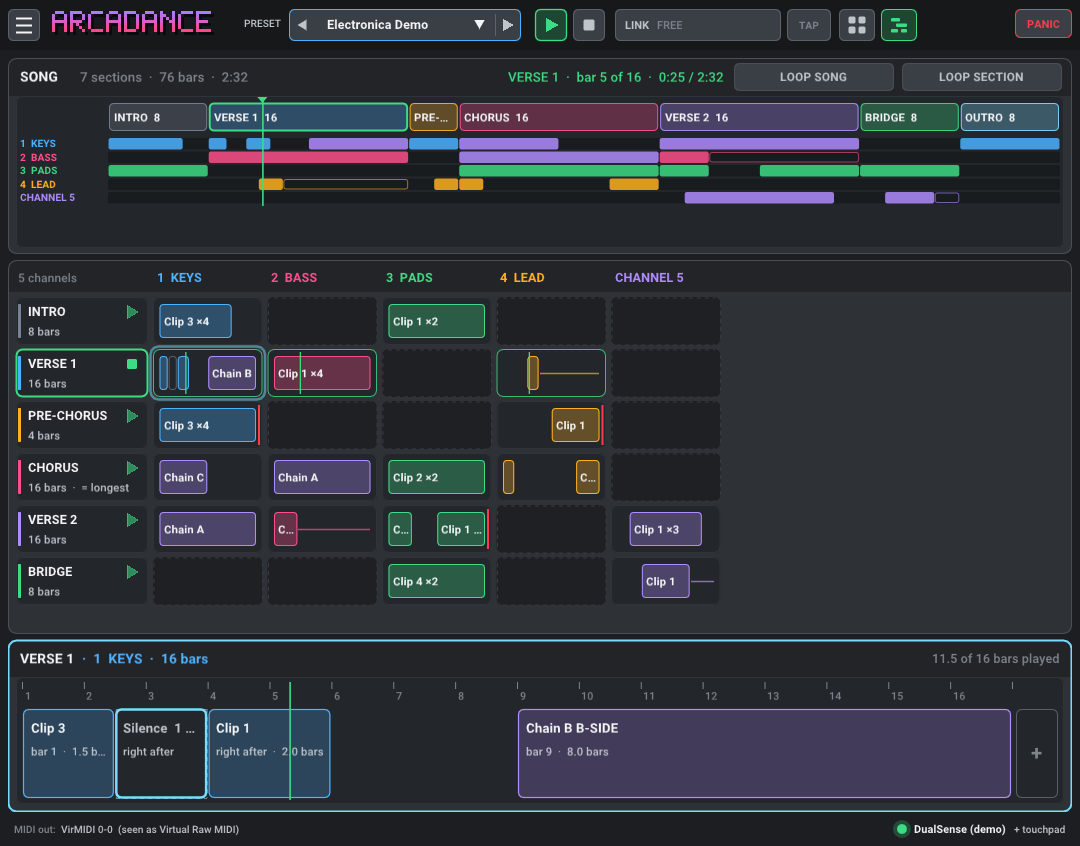
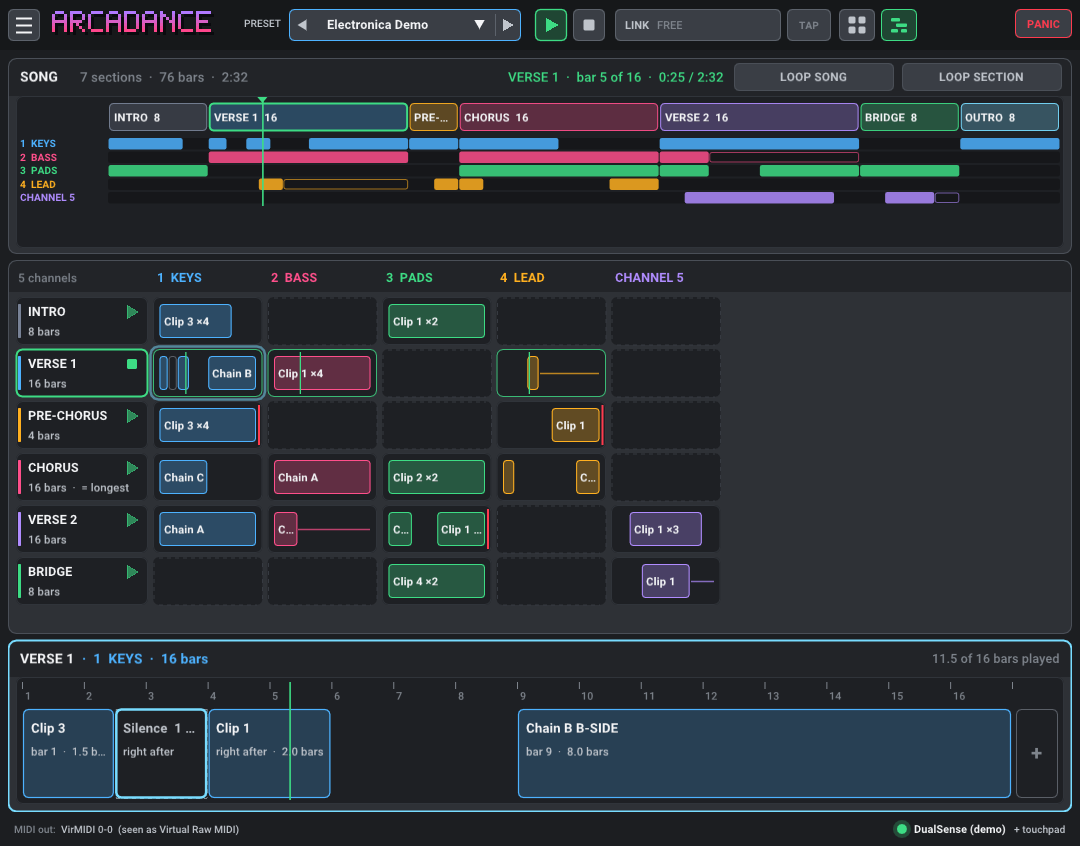
Song screen: chains in their channel's colour
Chains were drawn violet on the song screen (overview, cells, cell editor);
they now take their channel's colour, as clips do.

diff --git a/src/app/gui/PerformanceView.cpp b/src/app/gui/PerformanceView.cpp
@@ -2507,7 +2507,6 @@ std::optional<PerformanceView::SongAction> PerformanceView::drawSong(const LiveS
     const float width = ImGui::GetContentRegionAvail().x, height = ImGui::GetContentRegionAvail().y;
     constexpr int kColumns = 8;
     static constexpr ImU32 kSectionColors[] = {IM_COL32(0x78, 0x82, 0x96, 255), T::kBlue, T::kOrange, T::kPink, T::kViolet, T::kGreen, T::kCyan};
-    constexpr ImU32 kViolet = T::kViolet;
     const int sections = static_cast<int>(song.sections.size());
     const double bar = std::max(live.beatsPerBar, 1);
     // The channels in use, eight at a time, each column and lane its usual size.
@@ -2631,7 +2630,7 @@ std::optional<PerformanceView::SongAction> PerformanceView::drawSong(const LiveS
                 const double at = startOf[static_cast<std::size_t>(s)] + st[i];
                 const double next = i + 1 < items.size() ? startOf[static_cast<std::size_t>(s)] + st[i + 1] : end;
                 const double played = std::min(at + songItemBeats(live, ch, items[i], &open) / bar, std::min(next, end));
-                const ImU32 col = items[i].kind == SongItem::Kind::Chain ? kViolet : chColor;
+                const ImU32 col = chColor;  // clips and chains alike
                 if (played > at)
                     dl->AddRectFilled(ImVec2(xOf(at) + px(0.5f), y), ImVec2(std::max(xOf(played) - px(0.5f), xOf(at) + px(2)), y + laneH), alpha(col, 0.85f), px(2));
                 if ((items[i].loop || open) && next > played)  // on until the next item: hollow
@@ -2781,7 +2780,7 @@ std::optional<PerformanceView::SongAction> PerformanceView::drawSong(const LiveS
                 const double len = songItemBeats(live, ch, it, &open) / bar;
                 const double next = i + 1 < items.size() ? st[i + 1] : bars;
                 const double end = std::min(st[i] + len, std::min(next, static_cast<double>(bars)));
-                const ImU32 col = it.kind == SongItem::Kind::Chain ? kViolet : chColor;
+                const ImU32 col = chColor;
                 const float x0 = ix0 + static_cast<float>(st[i]) * barW, x1 = std::max(ix0 + static_cast<float>(end) * barW, x0 + px(3));
                 if (st[i] >= bars)
                     continue;
@@ -2885,7 +2884,7 @@ std::optional<PerformanceView::SongAction> PerformanceView::drawSong(const LiveS
         const double end = std::min(at + std::max(len, 0.25), std::min(next, static_cast<double>(bars)));
         const bool selected = cursor.editing && cursor.item == static_cast<int>(i);
         const bool rest = it.kind == SongItem::Kind::Rest;
-        const ImU32 col = rest ? IM_COL32(0x7E, 0x84, 0x8C, 255) : it.kind == SongItem::Kind::Chain ? kViolet : chColor;
+        const ImU32 col = rest ? IM_COL32(0x7E, 0x84, 0x8C, 255) : chColor;
         const float x0 = ex0 + static_cast<float>(std::min(at, static_cast<double>(bars))) * barW, x1 = std::max(ex0 + static_cast<float>(end) * barW, x0 + px(10));
         ImGui::PushID(static_cast<int>(i));
         ImGui::SetCursorScreenPos(ImVec2(x0, iy0));
